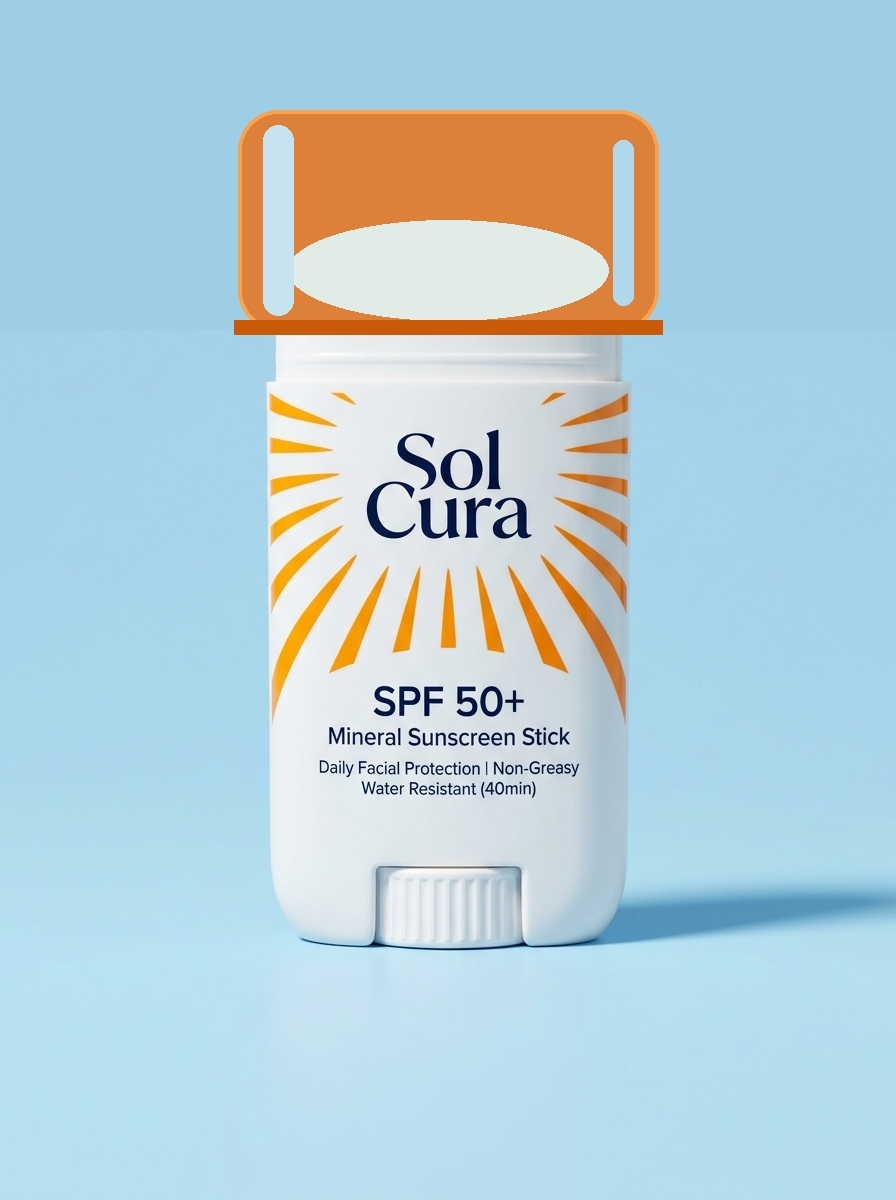
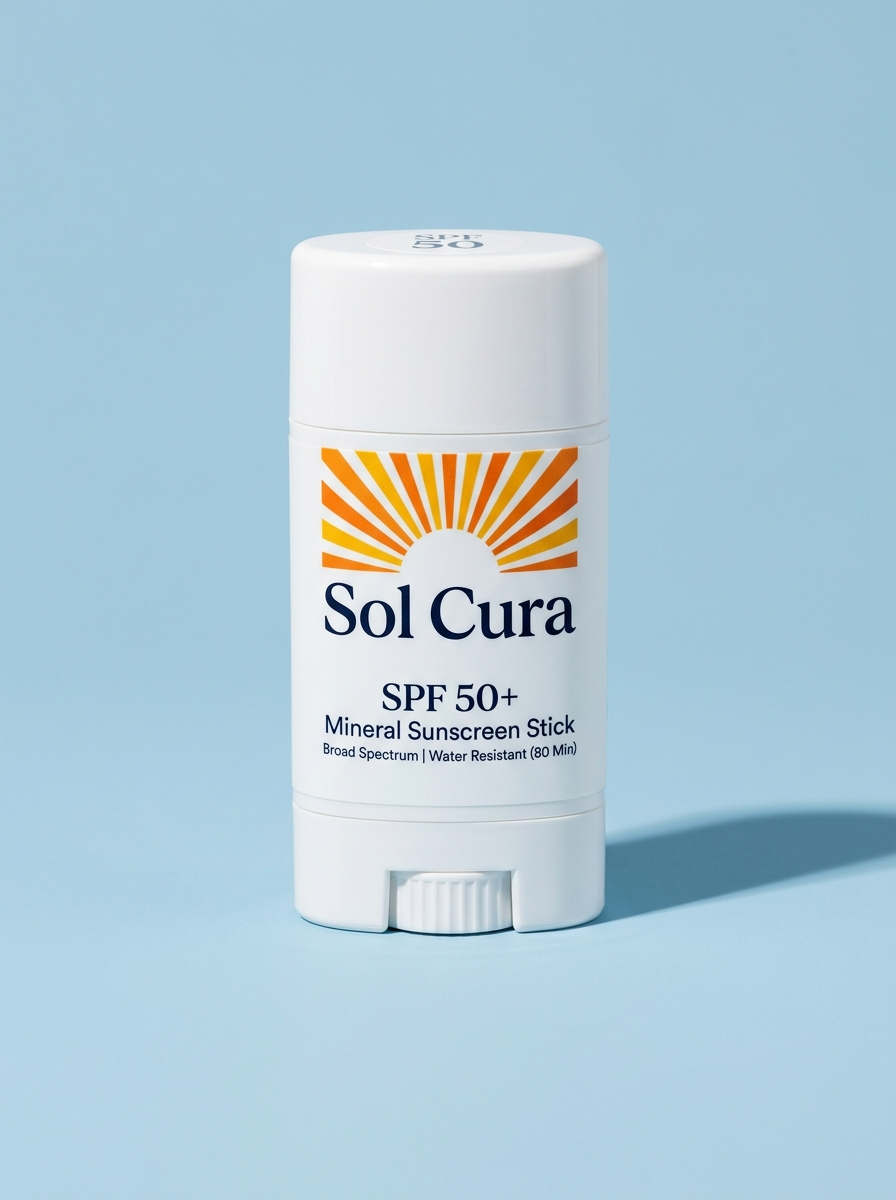
💎 UI Polish: Restore 8K studio packshot photography + card elevation
- Removed digital overlay shapes (which looked artificial/cheap)
- Restored pristine 8K studio photography with authentic studio lighting & natural drop shadows
- Product cards updated with object-fit: contain, soft drop-shadow filtering, and elevated rounded glass frames

Changed region(s): [[0.25, 0.0925, 1.0, 0.8017], [0.375, 0.3083, 0.4062, 0.3392]]

diff --git a/css/colors.css b/css/colors.css
@@ -899,3 +899,98 @@ h1, h2, h3, h4, h5, h6,
   .hero__headline { font-size: 2.5rem; }
   .section-title { font-size: 2rem !important; }
 }
+
+/* ── PRODUCT CARD UI ELEVATION ────────────────────────────── */
+.products {
+  background: linear-gradient(180deg, var(--sky) 0%, #BFE2F0 100%);
+  padding: 6rem 1rem;
+}
+
+.product-card {
+  background: #ffffff !important;
+  border-radius: 24px !important;
+  border: 1px solid rgba(255, 255, 255, 0.8) !important;
+  box-shadow: 0 12px 36px rgba(13, 39, 68, 0.08) !important;
+  transition: all 0.35s cubic-bezier(0.16, 1, 0.3, 1) !important;
+  overflow: hidden;
+}
+
+.product-card:hover {
+  transform: translateY(-8px) !important;
+  box-shadow: 0 24px 60px rgba(13, 39, 68, 0.16) !important;
+}
+
+.product-card__image-wrap {
+  position: relative;
+  background: #F0FAFF !important;
+  border-bottom: 1px solid rgba(13, 39, 68, 0.04);
+  padding: 1.5rem 1.5rem 0.5rem;
+  display: flex;
+  align-items: center;
+  justify-content: center;
+  border-top-left-radius: 24px;
+  border-top-right-radius: 24px;
+}
+
+.product-card__image-wrap img {
+  width: 100%;
+  height: 310px;
+  object-fit: contain !important; /* contain shows full product bottle without cropping */
+  transition: transform 0.4s ease;
+  filter: drop-shadow(0 10px 20px rgba(13, 39, 68, 0.1));
+}
+
+.product-card:hover .product-card__image-wrap img {
+  transform: scale(1.04);
+}
+
+.product-card__badge {
+  top: 1.25rem !important;
+  left: 1.25rem !important;
+  font-size: 0.7rem !important;
+  padding: 0.4rem 0.9rem !important;
+  border-radius: 50px !important;
+  box-shadow: 0 4px 12px rgba(13, 39, 68, 0.12) !important;
+}
+
+.product-card__quick-add {
+  bottom: 1.25rem !important;
+  right: 1.25rem !important;
+  border-radius: 50px !important;
+  font-size: 0.8rem !important;
+  padding: 0.55rem 1.1rem !important;
+  box-shadow: 0 6px 18px rgba(232, 114, 26, 0.35) !important;
+}
+
+.product-card__body {
+  padding: 1.75rem !important;
+}
+
+.product-card__spf {
+  font-size: 0.75rem !important;
+  letter-spacing: 0.08em !important;
+}
+
+.product-card__name {
+  font-size: 1.45rem !important;
+  font-weight: 800 !important;
+  color: var(--navy) !important;
+  margin: 0.3rem 0 0.5rem !important;
+}
+
+.product-card__benefit {
+  font-size: 0.9rem !important;
+  line-height: 1.55 !important;
+  color: rgba(13, 39, 68, 0.7) !important;
+}
+
+.product-card__footer {
+  border-top: 1px solid rgba(13, 39, 68, 0.06) !important;
+  padding-top: 1rem !important;
+  margin-top: 0.5rem !important;
+}
+
+.product-card__price {
+  font-size: 1.4rem !important;
+  font-weight: 800 !important;
+}
